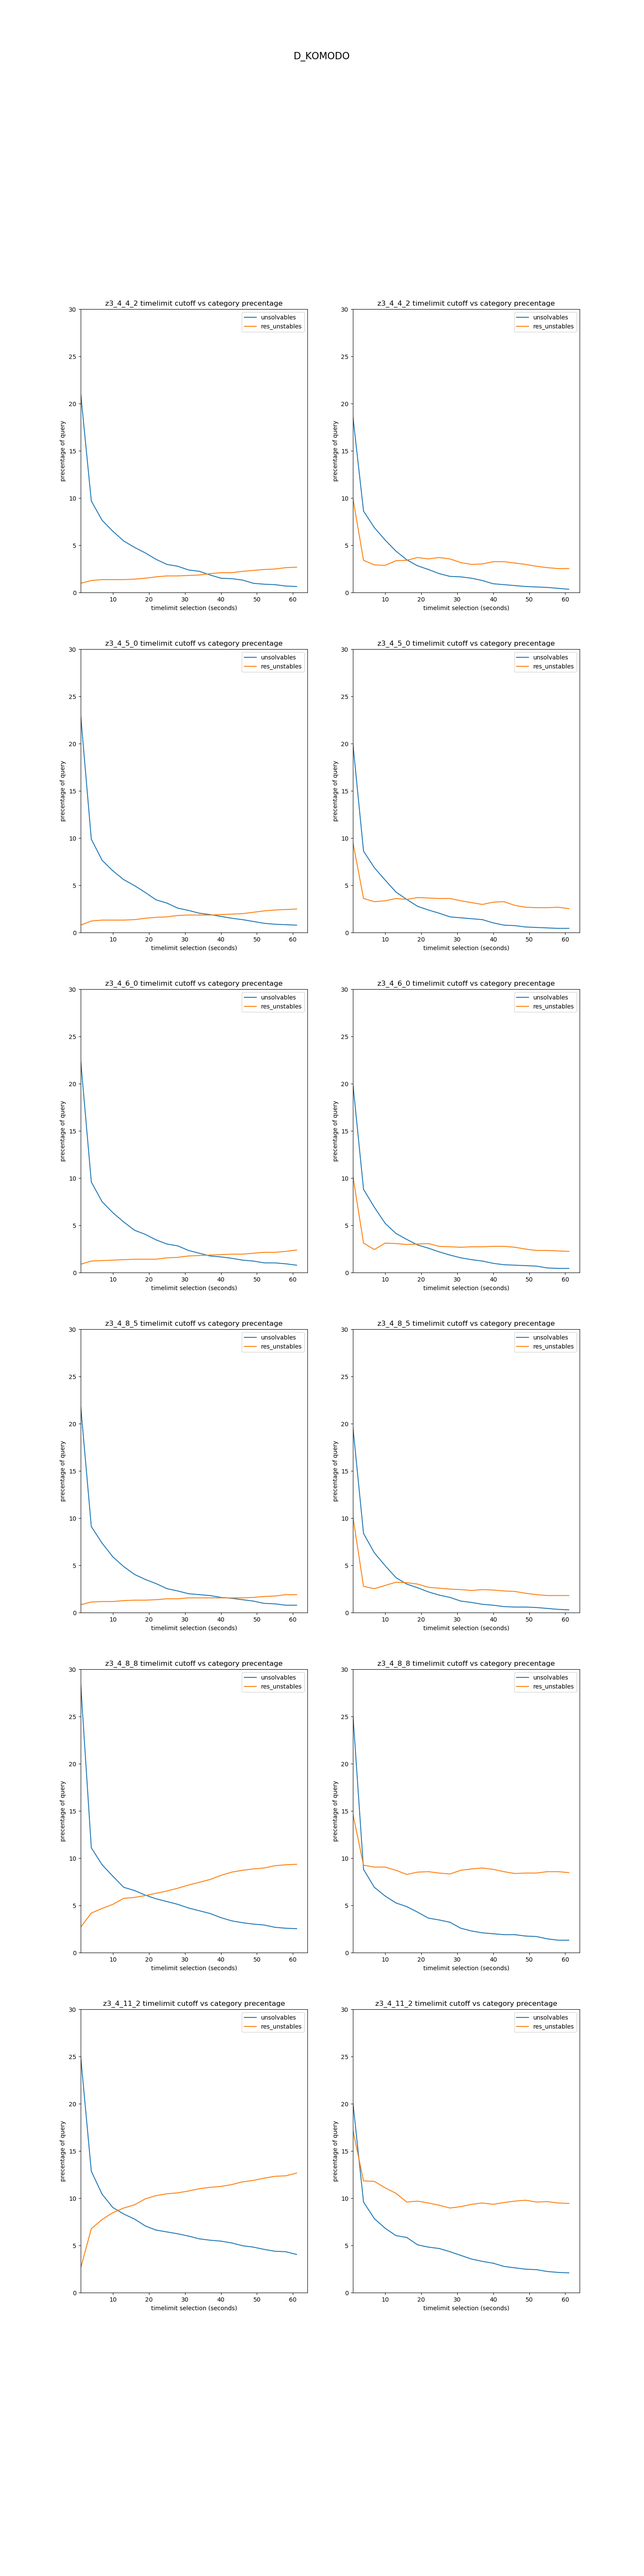
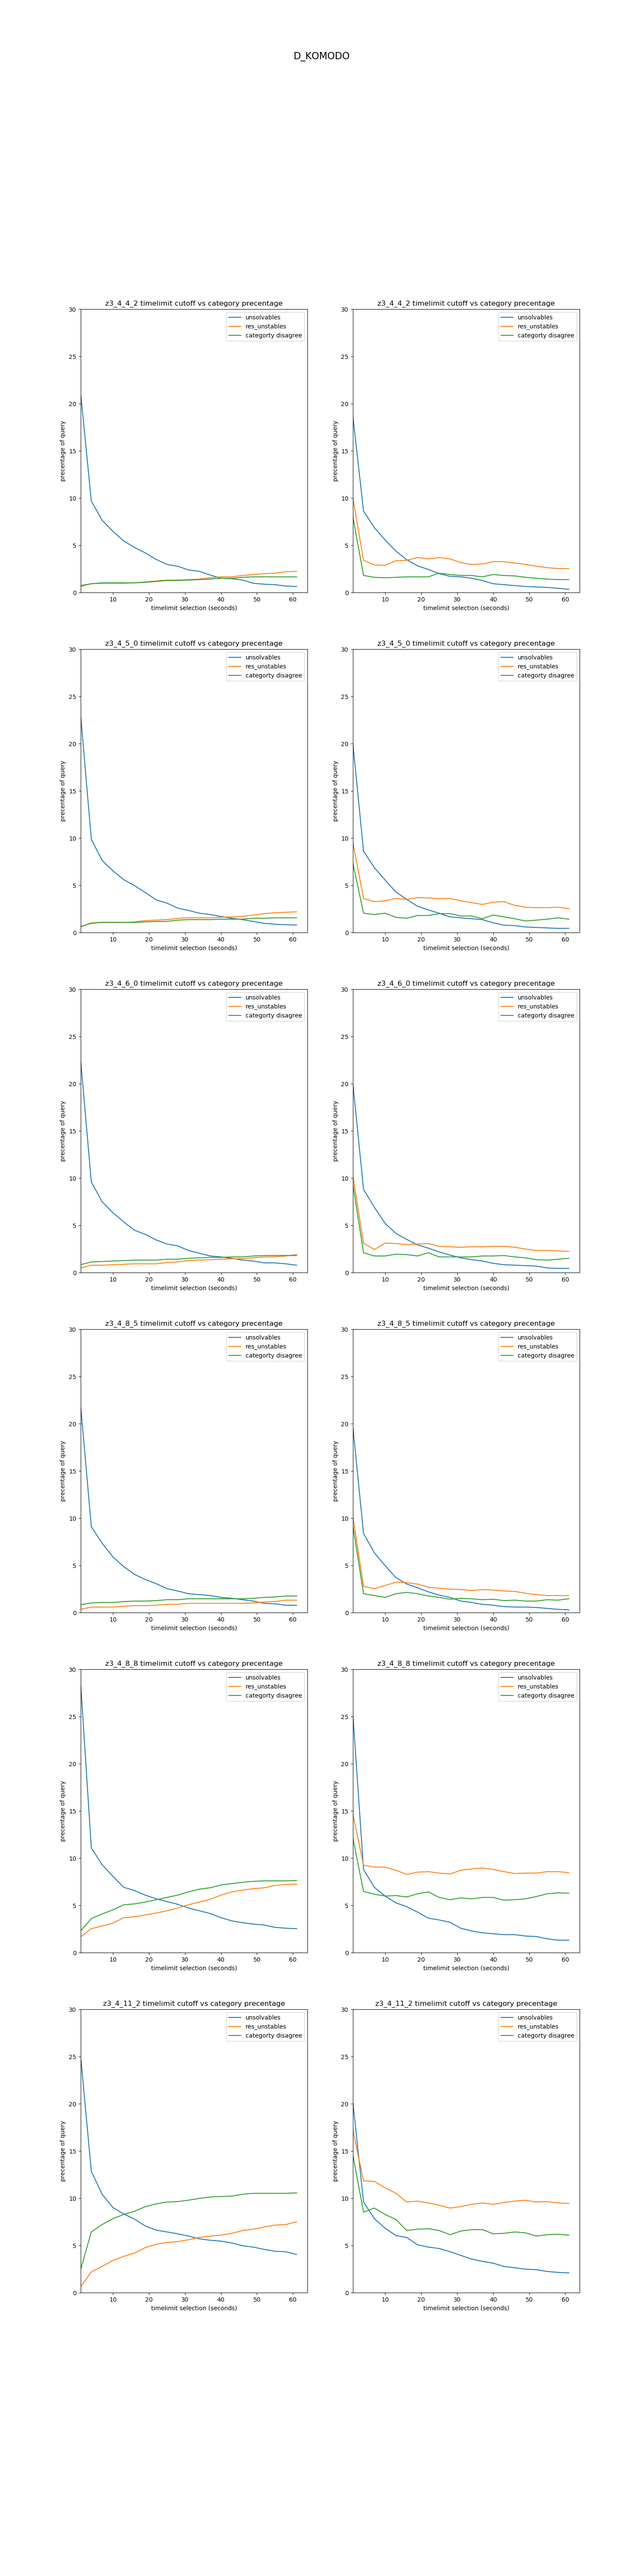
update cutoff picture to include category diff

diff --git a/scripts/analyzer.py b/scripts/analyzer.py
@@ -2,6 +2,7 @@ from db_utils import *
 import numpy as np
 from tqdm import tqdm
 import ast
+import scipy.stats
 from enum import Enum
 
 from configs.projects import *
@@ -141,14 +142,14 @@ class Thresholds:
         self.res_stable = 95
         assert 0 < self.res_stable < 100
 
-        self.time_stable = 1000
+        self.time_std = 1000
 
         if method == "plain":
-            self._categorize_group = self._categorize_group_plain
+            self.categorize_group = self._categorize_group_plain
         elif method == "strict":
-            self._categorize_group = self._categorize_group_strict
+            self.categorize_group = self._categorize_group_strict
         elif method == "threshold":
-            self._categorize_group = self._categorize_group_threshold
+            self.categorize_group = self._categorize_group_threshold
         else:
             assert False
 
@@ -178,13 +179,14 @@ class Thresholds:
 
     def _categorize_group_threshold(self, pres, ptime, vress, times):
         success = vress.count("unsat")
+        size = len(vress)
         # for i, x in enumerate(times):
         #     if as_seconds(x) <= self.timeout and vress[i] == "unsat":
         #         success += 1
 
         value = self.unsolvable/100
         _, p_value = proportions_ztest(count=success,
-                                        nobs=len(vress),
+                                        nobs=size,
                                         value=value, 
                                         alternative='smaller',
                                         prop_var=value)
@@ -193,12 +195,19 @@ class Thresholds:
 
         value = self.res_stable / 100
         _, p_value = proportions_ztest(count=success, 
-                                        nobs=len(vress),
+                                        nobs=size,
                                         value=value,
                                         alternative='larger',
                                         prop_var=value)
-        if  p_value <= self.confidence:
-            return Stablity.STABLE
+
+        if p_value <= self.confidence:
+            std = np.std(times)
+            time_std = self.time_std * 1000
+            T = (size - 1) * ((std / time_std) ** 2)
+            if T > scipy.stats.chi2.ppf(1-self.confidence, df=size-1):
+                return Stablity.TIME_UNSTABLE
+            else:
+                return Stablity.STABLE
 
         return Stablity.RES_UNSTABLE
     
@@ -206,10 +215,12 @@ class Thresholds:
         ress = set()
         pres, ptime = query_row[2], query_row[3]
         for (_, vress, times) in query_row[4]:
-            ress.add(self._categorize_group(pres, ptime, vress, times))
+            ress.add(self.categorize_group(pres, ptime, vress, times))
         if len(ress) == 1:
             return ress.pop()
-        return  Stablity.RES_UNSTABLE
+        if ress == {Stablity.TIME_UNSTABLE, Stablity.STABLE}:
+            return Stablity.TIME_UNSTABLE
+        return Stablity.RES_UNSTABLE
 
 def categorize_qeuries(rows, thresholds):
     categories = Stablity.empty_map()
@@ -235,20 +246,7 @@ def get_category_precentages(categories):
         percentages[c] = percentage(len(i), total)
     return percentages
 
-# def get_res_unstable_intervals(solver_summaries, res_stable_threshold, unsolvable_threshold):
-#     categories = dict()
-#     for solver, rows in solver_summaries.items():
-#         categories[solver] = get_categories(rows, res_stable_threshold, unsolvable_threshold)
-#     intervals = dict()
-#     for solver, (unsolvables, stables, _, count) in categories.items():
-#         max_ratio = percentage(count - len(stables), count)
-#         min_ratio = percentage(len(unsolvables), count)
-#         intervals[solver] = (min_ratio, max_ratio)
-#         # print(solver, round(min_ratio, 2), "~" ,round(max_ratio, 2), 
-#         #       round(max_ratio - min_ratio, 2))
-#     return intervals
-
-def do_stuff(cfg):
+def plot_cutoff(cfg):
     s = load_summary_table(cfg)
     # colors = get_color_map(cfg.empty_muts_map())
     solver_count = len(s.keys())
@@ -258,6 +256,7 @@ def do_stuff(cfg):
         th = Thresholds("plain")
         unsolvables = []
         unstables = []
+        inconsistents = []
         xs = [i for i in range(1, 63, 3)]
         xs.reverse()
         cc = []
@@ -270,16 +269,26 @@ def do_stuff(cfg):
             ps = get_category_precentages(categories)
             unsolvables.append(ps[Stablity.UNSOLVABLE])
             unstables.append(ps[Stablity.RES_UNSTABLE])
+            inconsistent = 0
+            for query_row in rows:
+                pres, ptime = query_row[2], query_row[3]
+                ress = set()
+                for (_, vress, times) in query_row[4]:
+                    ress.add(th.categorize_group(pres, ptime, vress, times))
+                if len(ress) != 1:
+                    inconsistent += 1
+            inconsistents.append(percentage(inconsistent, len(rows)))
 
         sps = cut_aixs
         if solver_count != 1:
             sps = cut_aixs[j]
         sp = sps[0]
-        print(unsolvables)
-        print(unstables)
+        # print(unsolvables)
+        # print(unstables)
 
         sp.plot(xs, unsolvables, marker=",", label="unsolvables")
         sp.plot(xs, unstables, marker=",", label="res_unstables")
+        sp.plot(xs, inconsistents, marker=",", label="categorty disagree")
         sp.legend()
         sp.set_title(f'{solver} timelimit cutoff vs category precentage')
         sp.set_ylabel("precentage of query")
@@ -289,6 +298,7 @@ def do_stuff(cfg):
 
         unsolvables = []
         unstables = []
+        inconsistents = []
         # cc = []
         th = Thresholds("strict")
 
@@ -300,11 +310,21 @@ def do_stuff(cfg):
             ps = get_category_precentages(categories)
             unsolvables.append(ps[Stablity.UNSOLVABLE])
             unstables.append(ps[Stablity.RES_UNSTABLE])
+            inconsistent = 0
+            for query_row in rows:
+                pres, ptime = query_row[2], query_row[3]
+                ress = set()
+                for (_, vress, times) in query_row[4]:
+                    ress.add(th.categorize_group(pres, ptime, vress, times))
+                if len(ress) != 1:
+                    inconsistent += 1
+            inconsistents.append(percentage(inconsistent, len(rows)))
 
         sp = sps[1]
 
         sp.plot(xs, unsolvables, marker=",", label="unsolvables")
         sp.plot(xs, unstables, marker=",", label="res_unstables")
+        sp.plot(xs, inconsistents, marker=",", label="categorty disagree")
         sp.legend()
         sp.set_title(f'{solver} timelimit cutoff vs category precentage')
         sp.set_ylabel("precentage of query")
@@ -312,6 +332,7 @@ def do_stuff(cfg):
         sp.set_xlim(left=1)
         sp.set_ylim(bottom=0, top=30)
 
+        # inconsistents
         # tt = 1
         # prev = None
         # for categories in reversed(cc):
@@ -328,8 +349,37 @@ def do_stuff(cfg):
 
     name = cfg.qcfg.name
     save_fig(cut_figure, f"{name}", f"fig/time_cutoff/{name}.png")
-    # print(i, unsolvables, unstables)
-    # print(s)
+
+def do_stuff(cfg):
+    s = load_summary_table(cfg)
+
+    for j, (solver, rows) in enumerate(s.items()):
+        th = Thresholds("strict")
+        unsolvables = []
+        unstables = []
+        xs = [i for i in range(1, 63, 3)]
+        xs.reverse()
+        cc = []
+
+        for i in xs:
+            th.timeout = i
+            remap_timeouts(rows, th)
+            count = 0
+            cc = 0
+            for query_row in rows:
+                pres, ptime = query_row[2], query_row[3]
+                ress = set()
+                for (_, vress, times) in query_row[4]:
+                    ress.add(th.categorize_group(pres, ptime, vress, times))
+                if len(ress) != 1:
+                    # print(ress)
+                    count += 1
+                elif Stablity.RES_UNSTABLE in ress:
+                    cc += 1
+            print(i, count, cc)
+
+                # categorize_group
+        # print(len(rows))
 
 # def plot_basic(cfg, solver_summaries):
 #     solver_count = len(cfg.samples)
@@ -372,40 +422,6 @@ def do_stuff(cfg):
 #             plot_result_overall(result_aixs, srs, solver, colors)
 
 #     save_fig(result_figure, f"{name}", f"fig/result_overall/{name}.png")
-
-# def get_all_sr(plain_res, summaries):
-#     # consider the plain one as well
-#     all_vres = [plain_res]
-#     for (_, vres, _) in summaries:
-#         all_vres += vres
-#     return group_success_rate(all_vres)
-
-# import scipy
-
-# def variance_test(times, time_std):
-#     size = len(times)
-#     std = np.std(times)
-#     time_std = time_std * 1000
-#     T = (size - 1) * ((std / time_std) ** 2)
-#     c2 = scipy.stats.chi2.ppf(1-0.05, df=size-1)
-#     return T > c2
-
-# def get_time_unstable_ratios(solver_summaries, time_std_threshold):
-#     ratios = dict()
-#     for solver, rows in solver_summaries.items():
-#         ratios[solver] = set()
-#         count = len(rows)
-#         for row in rows:
-#             plain_path, summaries = row[1], row[4]
-#             plain_res, plain_time = row[2], row[3]
-#             all_sr = get_all_sr(plain_res, summaries)
-#             if all_sr != 100:
-#                 continue
-#             for (_, _, times) in summaries:
-#                 if variance_test(times, time_std_threshold):
-#                     ratios[solver].add(plain_path)
-#     ratios = {s: percentage(len(paths), count) for s, paths in ratios.items()}
-#     return ratios
 
 # def plot_time_stable(cfg, solver_summaries):
 #     solver_count = len(cfg.samples)
@@ -496,18 +512,6 @@ def do_stuff(cfg):
 #     plt.tight_layout()
 #     save_fig(figure, f"sizes", f"fig/sizes.pdf")
 
-# def plot_time_cutoff(cfg):
-#     summaries = load_summary(cfg)
-#     thresholds = Thresholds(5, 95)
-#     for i in reversed(range(3, 63, 3)):
-#         for _, rows in summaries:
-#             remap_query_summary_timeout(row, thresholds)
-        # summaries = remap_summaries(summaries, i)
-        # get_categories(rows, 95, 5)
-        # vs = get_res_unstable_intervals(summaries, 90, 10)['z3_4_8_5']
-        # print(i, vs[0], vs[1])
-#     # get_categories(rows, res_stable_threshold, unsolvable_threshold):
-
 # # def analyze_cond_fail(cfg):
 # #     con, cur = get_cursor(cfg.qcfg.db_path)
 # #     summary_table_name = cfg.get_summary_table_name()
@@ -588,33 +592,29 @@ def dump_all(cfgs):
     project_names = [cfg.get_project_name() for cfg in cfgs]
     solver_names = [str(s) for s in ALL_SOLVERS]
 
-    thres = Thresholds("strict")
-    # thres.timeout = 30
+    thres = Thresholds("threshold")
+    thres.timeout = 30
+    thres.time_std = 3
 
-    data = []
-    for cfg in cfgs:
-        summaries = load_summary_table(cfg)
-        row = []
-        for solver in solver_names:
-            if solver in summaries:
-                rows = summaries[solver]
-                remap_timeouts(rows, thres)
-                items = categorize_qeuries(rows, thres)
-                ps = get_category_precentages(items)
-                row.append([ps[Stablity.UNSOLVABLE], ps[Stablity.RES_UNSTABLE], ps[Stablity.TIME_UNSTABLE]])
-            else:
-                row.append([0, 0, 0])
-        data.append(row)
+    # data = []
+    # for cfg in cfgs:
+    #     summaries = load_summary_table(cfg)
+    #     row = []
+    #     for solver in tqdm(solver_names):
+    #         if solver in summaries:
+    #             rows = summaries[solver]
+    #             remap_timeouts(rows, thres)
+    #             items = categorize_qeuries(rows, thres)
+    #             ps = get_category_precentages(items)
+    #             row.append([ps[Stablity.UNSOLVABLE], ps[Stablity.RES_UNSTABLE], ps[Stablity.TIME_UNSTABLE]])
+    #         else:
+    #             row.append([0, 0, 0])
+    #     data.append(row)
     # print(data)
 
-    # data = [[[0.258732212160414, 4.3984476067270375, 0], [0.7761966364812419, 3.8809831824062098, 0], [0.6468305304010349, 2.1992238033635187, 0], [0.129366106080207, 4.657179818887451, 0], [-1, -1, 0], [-1, -1, 0], [0.0, 5.692108667529108, 0], [0.258732212160414, 5.562742561448901, 0], [-1, -1, 0], [0.38809831824062097, 5.821474773609315, 0], [-1, -1, 0]], [[0.6329113924050633, 2.6777020447906525, 0], [0.7789678675754625, 2.4829600778967866, 0], [0.7789678675754625, 2.385589094449854, 0], [0.7789678675754625, 1.8987341772151898, 0], [-1, -1, 0], [-1, -1, 0], [2.5316455696202533, 9.34761441090555, 0], [-1, -1, 0], [-1, -1, 0], [4.040895813047712, 12.658227848101266, 0], [-1, -1, 0]], [[1.3928571428571428, 0.9464285714285714, 0], [-1, -1, 0], [-1, -1, 0], [1.0535714285714286, 1.0892857142857142, 0], [-1, -1, 0], [-1, -1, 0], [-1, -1, 0], [-1, -1, 0], [-1, -1, 0], [-1, -1, 0], [-1, -1, 0]], [[1.7094017094017093, 0.11396011396011396, 0], [1.7094017094017093, 0.11396011396011396, 0], [1.3105413105413106, 0.7407407407407407, 0], [1.2535612535612535, 0.5128205128205128, 0], [-1, -1, 0], [-1, -1, 0], [1.7094017094017093, 0.6837606837606838, 0], [1.5384615384615385, 0.8547008547008547, 0], [-1, -1, 0], [1.4245014245014245, 0.3418803418803419, 0], [-1, -1, 0]]]
+    data = [[[0.38809831824062097, 1.8111254851228977, 1.8111254851228977], [0.38809831824062097, 2.1992238033635187, 0.7761966364812419], [0.258732212160414, 1.8111254851228977, 0.517464424320828], [0.0, 1.8111254851228977, 0.0], [0, 0, 0], [0, 0, 0], [0.0, 2.1992238033635187, 0.129366106080207], [0.258732212160414, 2.069857697283312, 1.034928848641656], [0, 0, 0], [0.0, 2.3285899094437257, 1.034928848641656], [0, 0, 0]], [[1.7039922103213243, 3.2619279454722494, 0.19474196689386564], [1.6553067185978578, 3.3106134371957157, 0.19474196689386564], [1.6066212268743914, 2.775073028237585, 0.2921129503407984], [1.3631937682570594, 2.4829600778967866, 0.34079844206426485], [0, 0, 0], [0, 0, 0], [2.775073028237585, 8.568646543330088, 1.071080817916261], [0, 0, 0], [0, 0, 0], [4.040895813047712, 9.104186952288218, 1.4605647517039921], [0, 0, 0]], [[1.4107142857142858, 0.75, 0.4107142857142857], [0, 0, 0], [0, 0, 0], [1.125, 0.8392857142857143, 0.3392857142857143], [0, 0, 0], [0, 0, 0], [0, 0, 0], [0, 0, 0], [0, 0, 0], [0, 0, 0], [0, 0, 0]], [[1.5954415954415955, 0.2849002849002849, 0.0], [1.5954415954415955, 0.22792022792022792, 0.0], [1.3105413105413106, 0.3418803418803419, 0.05698005698005698], [1.2535612535612535, 0.17094017094017094, 0.0], [0, 0, 0], [0, 0, 0], [1.3675213675213675, 0.5698005698005698, 0.0], [1.3105413105413106, 0.5698005698005698, 0.0], [0, 0, 0], [1.1396011396011396, 0.45584045584045585, 0.05698005698005698], [0, 0, 0]]]
 
-    # colors = get_color_map([cfg.qcfg.name for cfg in cfgs])
-
-    # # # # print_as_md_table(data)
-    # total = len(solver_names) * len(projects)
     bar_width = len(solver_names)/100
-    # fig, aixs = plt.subplots(figsize=(total, 16))
     fig, ax = plt.subplots()
 
     br = np.arange(len(solver_names))
@@ -633,9 +633,9 @@ def dump_all(cfgs):
                 plt.bar(br[i], hp, bottom=lp, width = bar_width, color=pcolor, edgecolor='black')
             pds.append(p)
 
-        # hps_ = [hps[i] - lps[i] for i in range(len(hps))]
         plt.bar(br, height=lps, width=bar_width, color=pcolor, alpha=0.20)
         plt.bar(br, height=hps, bottom=lps, width=bar_width, label=project_names[pi], color=pcolor)
+        hps = [hps[i] + lps[i] for i in range(len(hps))]
         plt.bar(br, height=pds, bottom=hps, width=bar_width, color=pcolor, alpha=0.40)
 
     plt.ylim(bottom=0, top=15)

diff --git a/scripts/stat_test.py b/scripts/stat_test.py
@@ -48,11 +48,10 @@ def z_test():
         )
 
 def chi2_test():
-    ts = [5982, 6653, 8364, 9198, 9233, 7163, 6050, 7724, 10607, 10841]
-    # std = np.std(ts)
-    std = 1001
+    ts = [317, 364, 595, 369, 297, 368, 322, 314, 360, 797, 323, 394, 377, 465, 360, 943, 356, 306, 411, 326, 331, 427, 981, 456, 329, 9361, 757, 288, 402, 394, 859, 344, 375, 399, 368, 300, 377, 349, 310, 420, 361, 374, 326, 511, 360, 3390, 407, 942, 537, 698, 327, 704, 341, 1082, 27014, 336, 587, 304, 369, 454]
+    std = np.std(ts)
     # print(std)
-    size = 10
+    size = len(ts)
     est = 1000
     T = (size - 1) * ((std / est) ** 2)
     print(T)
@@ -62,4 +61,4 @@ def chi2_test():
     print(T > c2)
     # print(T < c1)
 
-z_test()
+chi2_test()

diff --git a/scripts/main.py b/scripts/main.py
@@ -50,12 +50,15 @@ for cfg in ALL_UNSOL_CFGs:
 
 def analyze_results():
     import numpy as np
-    from analyzer import do_stuff, dump_all
+    from analyzer import do_stuff, dump_all, plot_cutoff
     # analyze_d_komodo_sus(D_KOMODO_CFG)
 
-    cfgs = [S_KOMODO_CFG, D_KOMODO_CFG, D_LVBKV_CFG, FS_VWASM_CFG]
-    dump_all(cfgs)
-    # do_stuff(D_KOMODO_CFG)
+    # cfgs = [S_KOMODO_CFG, D_KOMODO_CFG, D_LVBKV_CFG, FS_VWASM_CFG]
+    # cfgs = [D_KOMODO_CFG]
+    # dump_all(cfgs)
+    cfg = ExpConfig("D_KOMODO", D_KOMODO, [Z3_4_4_2], DB_PATH)
+    cfg = ExpConfig("D_LVBKV", D_LVBKV, [Z3_4_4_2], DB_PATH)
+    plot_cutoff(D_LVBKV_CFG)
 
     # total = 0
     # for cfg in ALL_UNSOL_CFGs:
